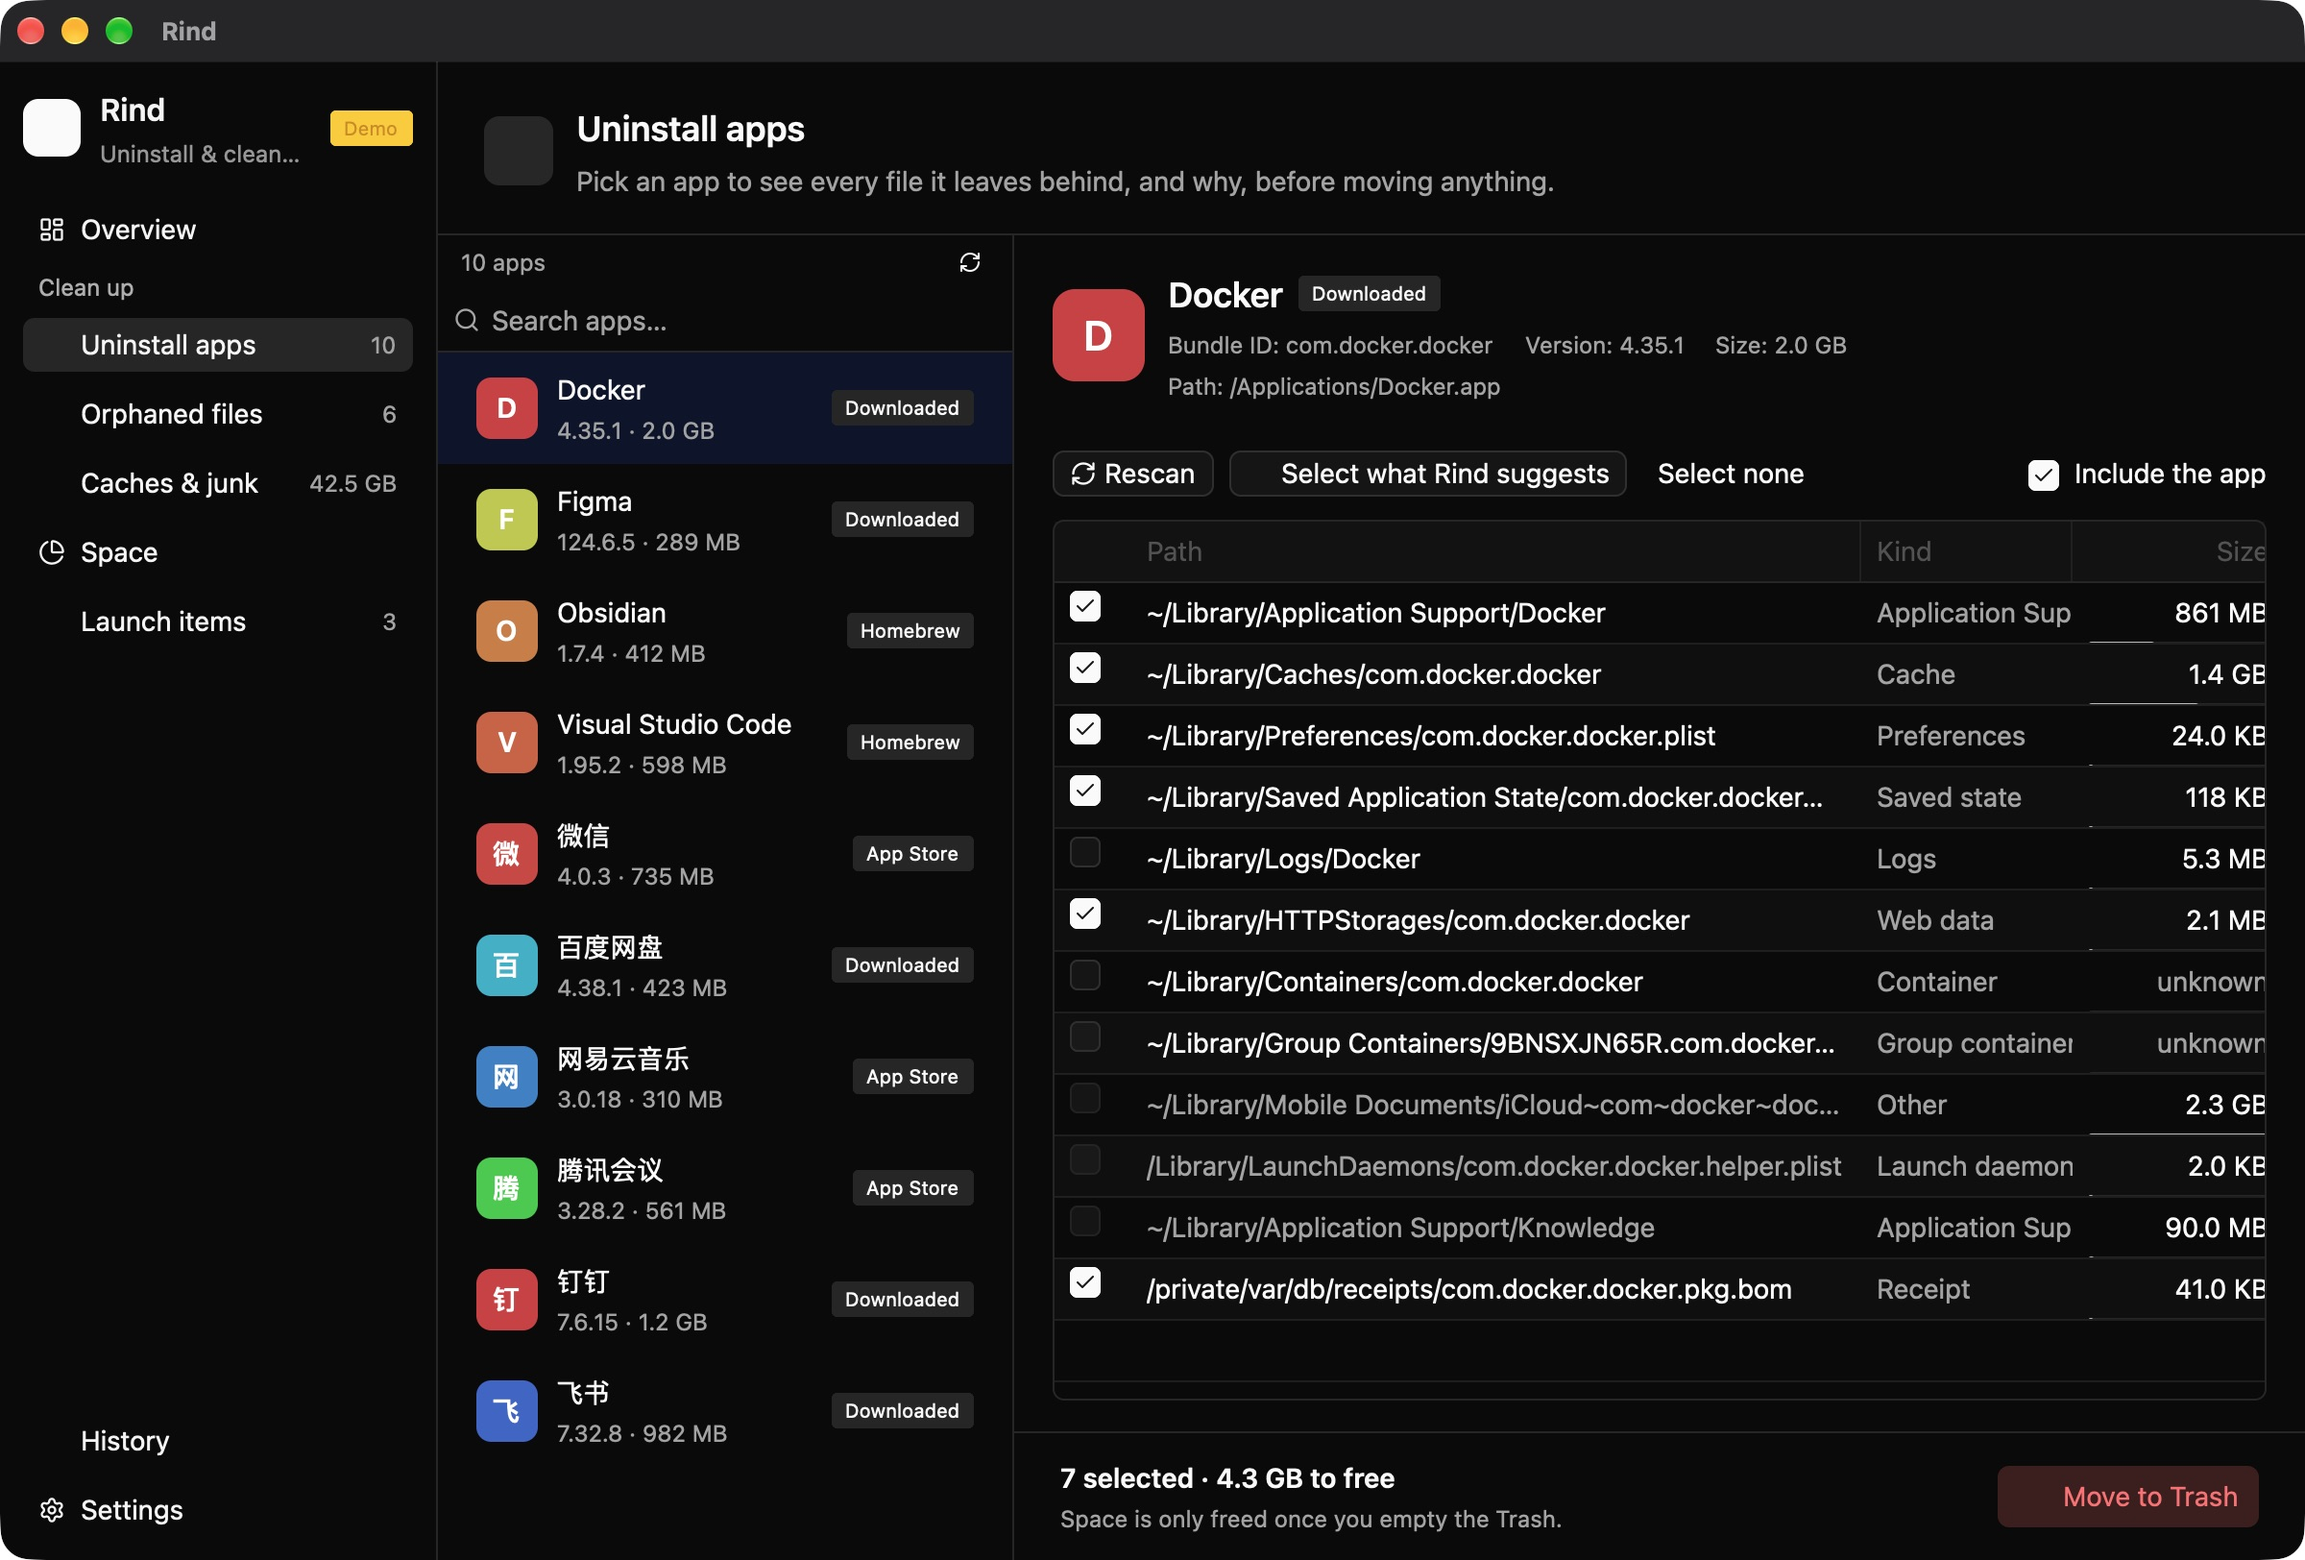
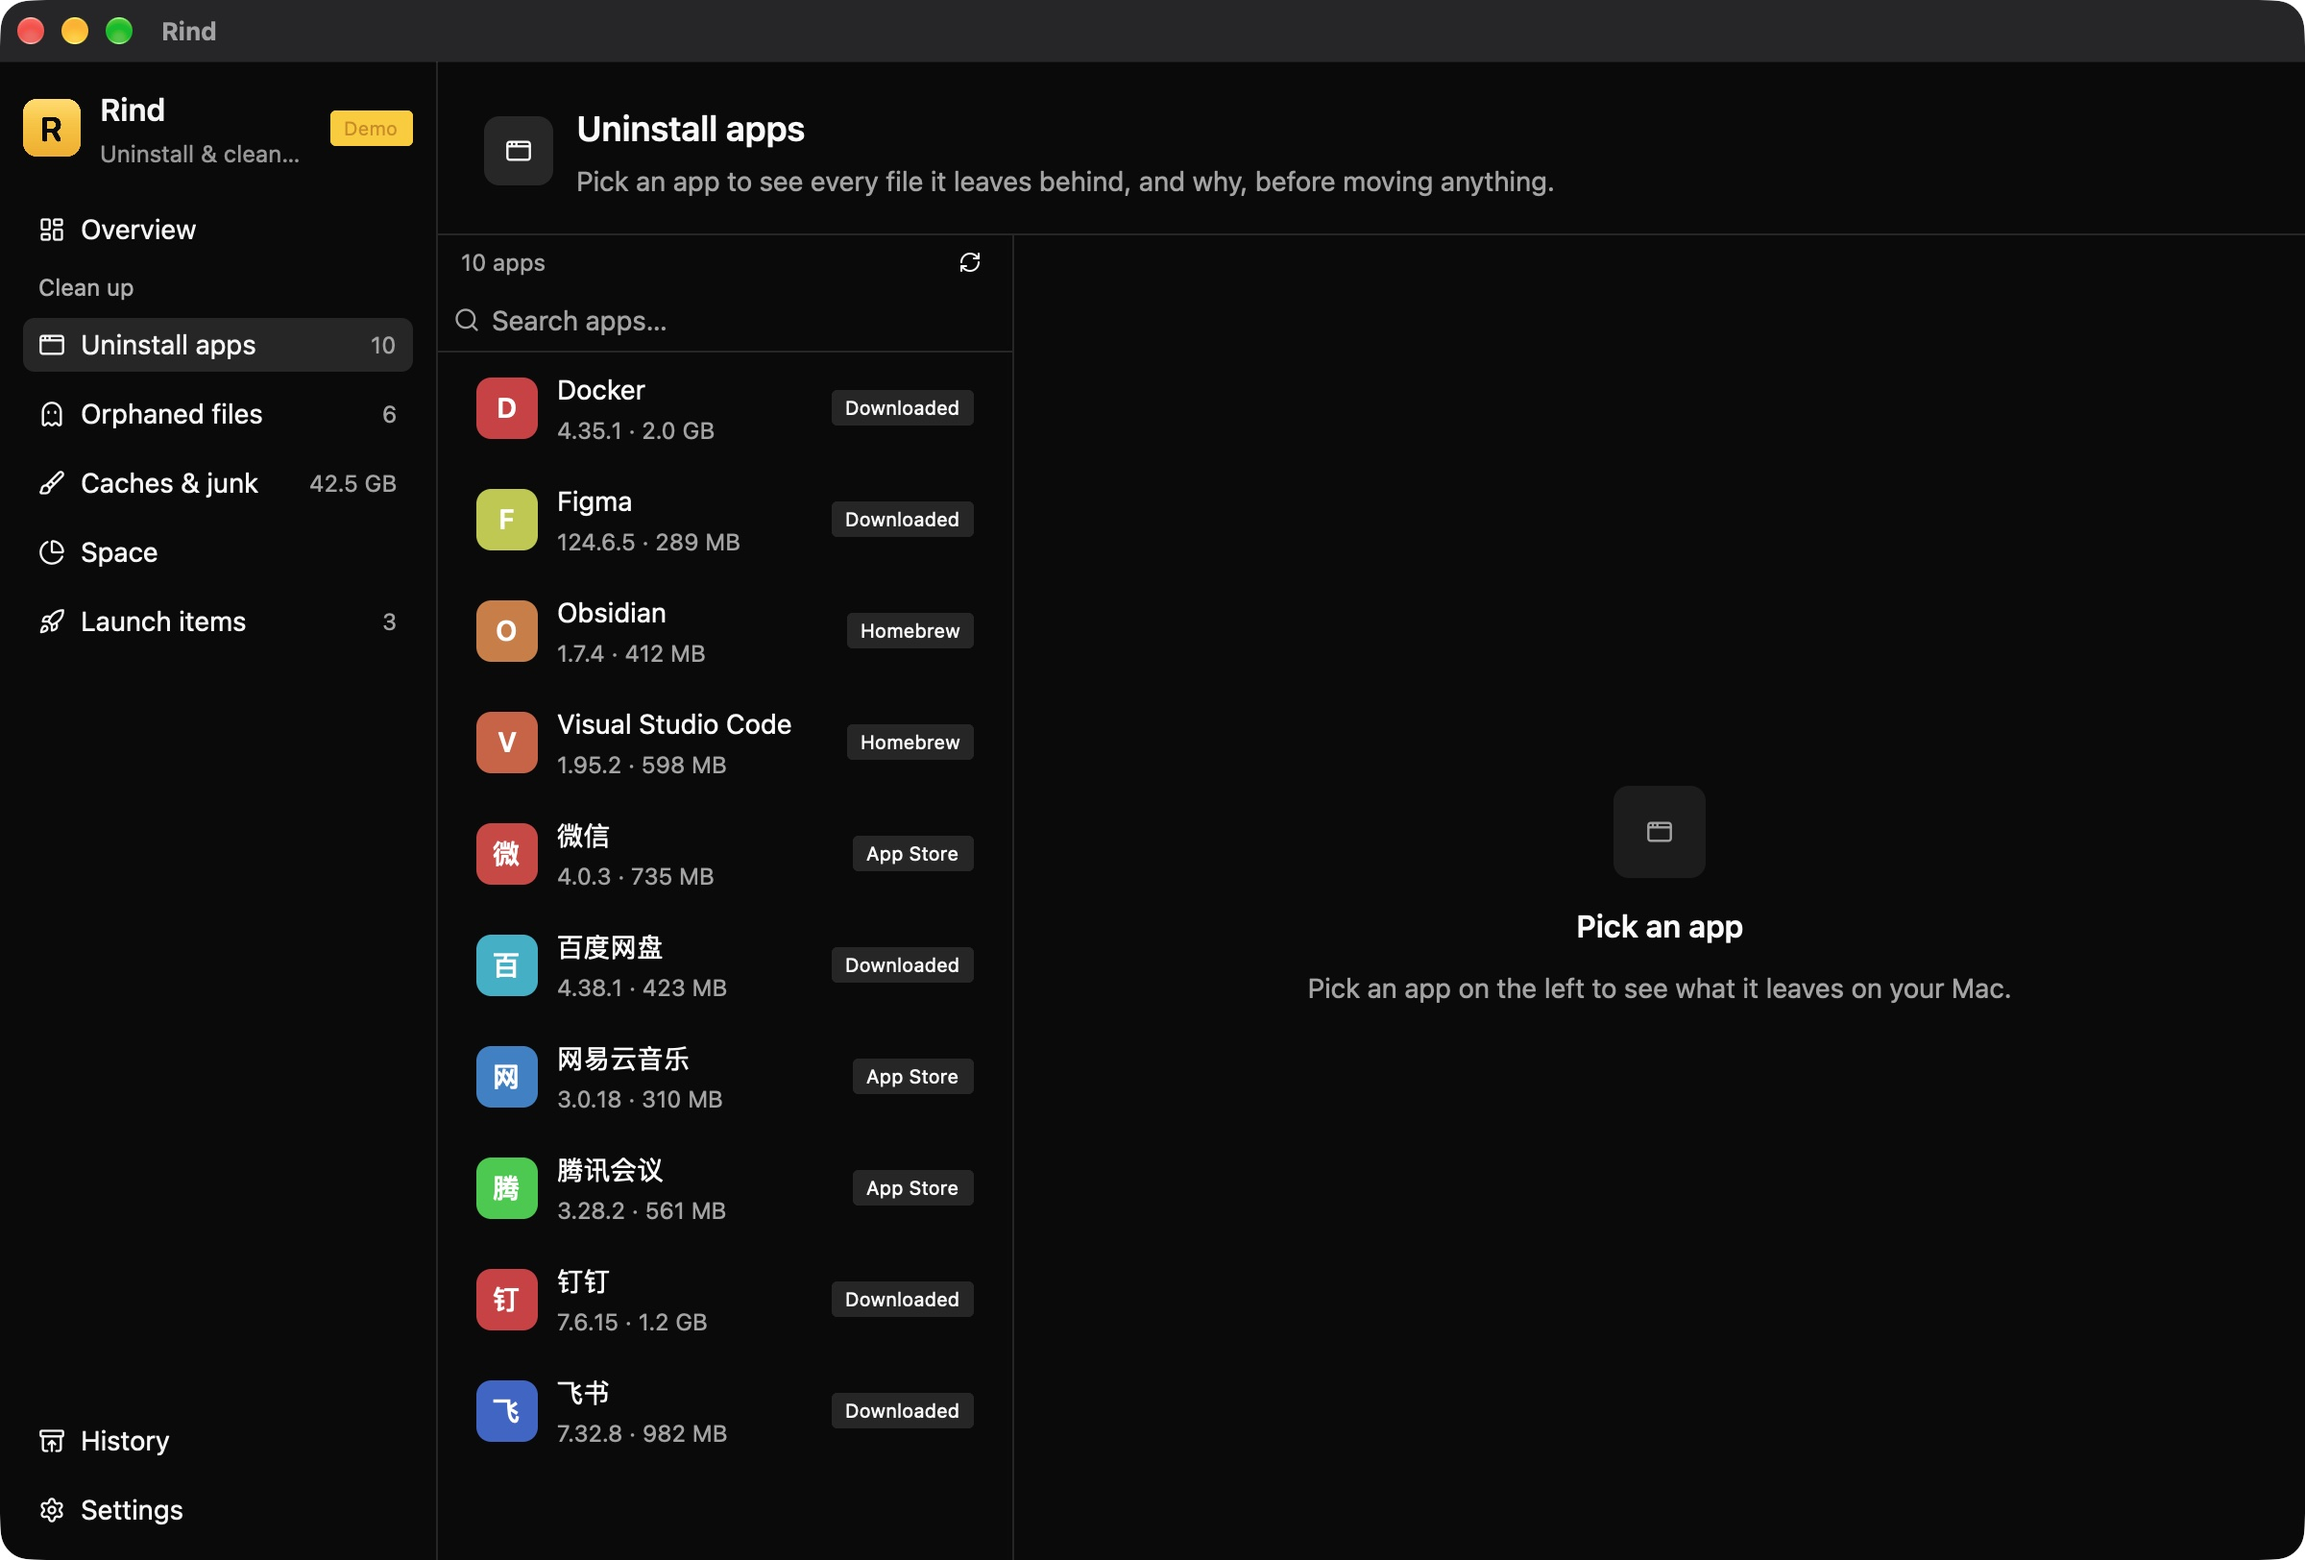
fix(app): 补齐空白图标并重拍界面截图
- 根因：gpui-kit 的 `Assets` 只内嵌组件自用的 101 个 Lucide 图标；Rind 另用的 15 个
  （AppWindow、ArchiveRestore、Brush、Clock、Download、Ghost、House、Library、Lock、Rocket、
  ScanSearch、ShieldCheck、Sparkles、Trash、X）没有登记，`Icon::new` 画出来是空白
- 新增 app_assets.rs：`icon_assets!` 登记这些图标，`AppAssets` 先找它、再回落到 `Assets`；
  main.rs 改用 `AppAssets`
- 测试 every_icon_the_ui_uses_is_embedded 扫 src/*.rs 里的 `IconName::X` / `LucideIcon::X`，
  任何一个加载不到就失败（第一次跑就抓到了漏掉的 `X`）
- scripts/capture-screenshots.sh：示例数据下逐页起应用、按窗口号 `screencapture -o -l`
  拍 2400×1624 的窗口图，再用 ffmpeg 合成 9 帧 demo.gif；中英两套截图与 GIF 全部重拍
- CHANGELOG 未发布节记上

验证：rind-app 25 测试通过（含新增 2 个）、clippy -D warnings / fmt 干净；
18 张截图逐张目验：侧栏、总览卡片、按钮图标都在，侧栏顶部为新标志。
Constraint: 只登记用到的图标，不注册 AllAssets（后者会多出约 1 MB 二进制）
Rejected: 换成 gpui_kit::component::IconName 旧枚举 | 它没有 Ghost / Rocket 等图标，换不了
Confidence: high
Scope-risk: narrow
Not-tested: 设置页「关于」在截图里看不到（在页面底部，截图只拍到首屏）

diff --git a/crates/rind-app/src/app_assets.rs b/crates/rind-app/src/app_assets.rs
@@ -1,0 +1,119 @@
+//! 界面用到的图标资源。gpui-kit 的 `Assets` 只内嵌它自己组件要用的那 101 个 Lucide 图标；
+//! Rind 另外用到的要在这里登记，否则 `Icon::new(IconName::Ghost)` 这类图标画出来是空白的。
+//! 新用了一个图标就加进 `ExtraIcons`——测试会扫源码，漏登记的会让测试失败。
+
+use std::borrow::Cow;
+
+use gpui_kit::assets::{icon_assets, Assets};
+use gpui_kit::{AssetSource, Result, SharedString};
+
+icon_assets!(
+    ExtraIcons,
+    [
+        AppWindow,
+        ArchiveRestore,
+        Brush,
+        Clock,
+        Download,
+        Ghost,
+        House,
+        Library,
+        Lock,
+        Rocket,
+        ScanSearch,
+        ShieldCheck,
+        Sparkles,
+        Trash,
+        X
+    ]
+);
+
+/// 先找 Rind 自己登记的图标，找不到再交给 gpui-kit 的默认资源。
+pub struct AppAssets;
+
+impl AssetSource for AppAssets {
+    fn load(&self, path: &str) -> Result<Option<Cow<'static, [u8]>>> {
+        if let Some(bytes) = ExtraIcons.load(path)? {
+            return Ok(Some(bytes));
+        }
+        Assets.load(path)
+    }
+
+    fn list(&self, path: &str) -> Result<Vec<SharedString>> {
+        let mut paths = Assets.list(path)?;
+        paths.extend(ExtraIcons.list(path)?);
+        paths.sort();
+        paths.dedup();
+        Ok(paths)
+    }
+}
+
+#[cfg(test)]
+mod tests {
+    use std::collections::{BTreeSet, HashMap};
+    use std::path::Path;
+
+    use gpui_kit::assets::IconName;
+
+    use super::*;
+
+    /// 源码里写到的 `IconName::X` / `LucideIcon::X`（去重）。
+    fn icons_named_in_source() -> BTreeSet<String> {
+        let src = Path::new(env!("CARGO_MANIFEST_DIR")).join("src");
+        let mut names = BTreeSet::new();
+        for entry in std::fs::read_dir(&src).expect("read src") {
+            let path = entry.expect("dir entry").path();
+            if path.extension().and_then(|e| e.to_str()) != Some("rs") {
+                continue;
+            }
+            let text = std::fs::read_to_string(&path).expect("read source");
+            for prefix in ["IconName::", "LucideIcon::"] {
+                for (at, _) in text.match_indices(prefix) {
+                    let rest = &text[at + prefix.len()..];
+                    let name: String = rest
+                        .chars()
+                        .take_while(|c| c.is_ascii_alphanumeric())
+                        .collect();
+                    if name.starts_with(|c: char| c.is_ascii_uppercase()) && name != "ALL" {
+                        names.insert(name);
+                    }
+                }
+            }
+        }
+        names
+    }
+
+    #[test]
+    fn every_icon_the_ui_uses_is_embedded() {
+        let by_name: HashMap<String, IconName> = IconName::ALL
+            .iter()
+            .map(|icon| (format!("{icon:?}"), *icon))
+            .collect();
+        let used = icons_named_in_source();
+        assert!(used.len() > 10, "the scan found too few icons: {used:?}");
+        let mut blank = Vec::new();
+        for name in &used {
+            let icon = by_name
+                .get(name)
+                .unwrap_or_else(|| panic!("{name} is not a bundled icon name"));
+            let path = icon.path();
+            // 没内嵌时 gpui-kit 的 `Assets` 返回错误而不是 `None`，两种都算画不出来。
+            if !matches!(AppAssets.load(&path), Ok(Some(_))) {
+                blank.push(format!("{name} ({path})"));
+            }
+        }
+        assert!(
+            blank.is_empty(),
+            "these icons would render blank; add them to ExtraIcons: {blank:?}"
+        );
+    }
+
+    #[test]
+    fn listing_includes_both_sources_once() {
+        let listed = AppAssets.list("icons/").expect("list");
+        assert!(listed.iter().any(|p| p.as_ref() == "icons/ghost.svg"));
+        assert!(listed.iter().any(|p| p.as_ref() == "icons/check.svg"));
+        let unique: BTreeSet<_> = listed.iter().collect();
+        assert_eq!(unique.len(), listed.len());
+    }
+}

diff --git a/crates/rind-app/src/main.rs b/crates/rind-app/src/main.rs
@@ -6,6 +6,7 @@
 //! 两个环境变量都按「去掉空白后为空 = 没设」处理。
 
 mod app;
+mod app_assets;
 mod apps_page;
 mod cleanup_page;
 mod demo;
@@ -60,7 +61,7 @@ fn main() {
     let lang = resolve_lang(demo);
     let services = Arc::new(Services::new(demo, lang));
 
-    let app = gpui_kit::application().with_assets(gpui_kit::assets::Assets);
+    let app = gpui_kit::application().with_assets(app_assets::AppAssets);
     app.run(move |cx| {
         gpui_kit::init(cx);
         cx.set_global(CleanupPrefs::default());

diff --git a/CHANGELOG.md b/CHANGELOG.md
@@ -5,6 +5,17 @@
 
 ## [未发布]
 
+### 修复
+
+- 界面里有 15 个图标一直是空白的（侧栏的「应用卸载 / 孤儿残留 / 缓存清理 / 启动项」、总览卡片、
+  「智能扫描」、各页的关闭按钮等）：gpui-kit 默认只内嵌它自己组件用的 101 个图标，Rind 另外用到的
+  没有登记。现在由 `app_assets::AppAssets` 一并登记，并有测试扫描源码，漏登记的图标会让测试失败。
+
+### 文档
+
+- 中英两套界面截图与 `demo.gif` 用新构建重拍（新图标、侧栏标志）；新增可重跑的
+  `scripts/capture-screenshots.sh`（示例数据，不碰真实家目录）。
+
 ## [0.2.1] - 2026-11-10
 
 ### 界面
